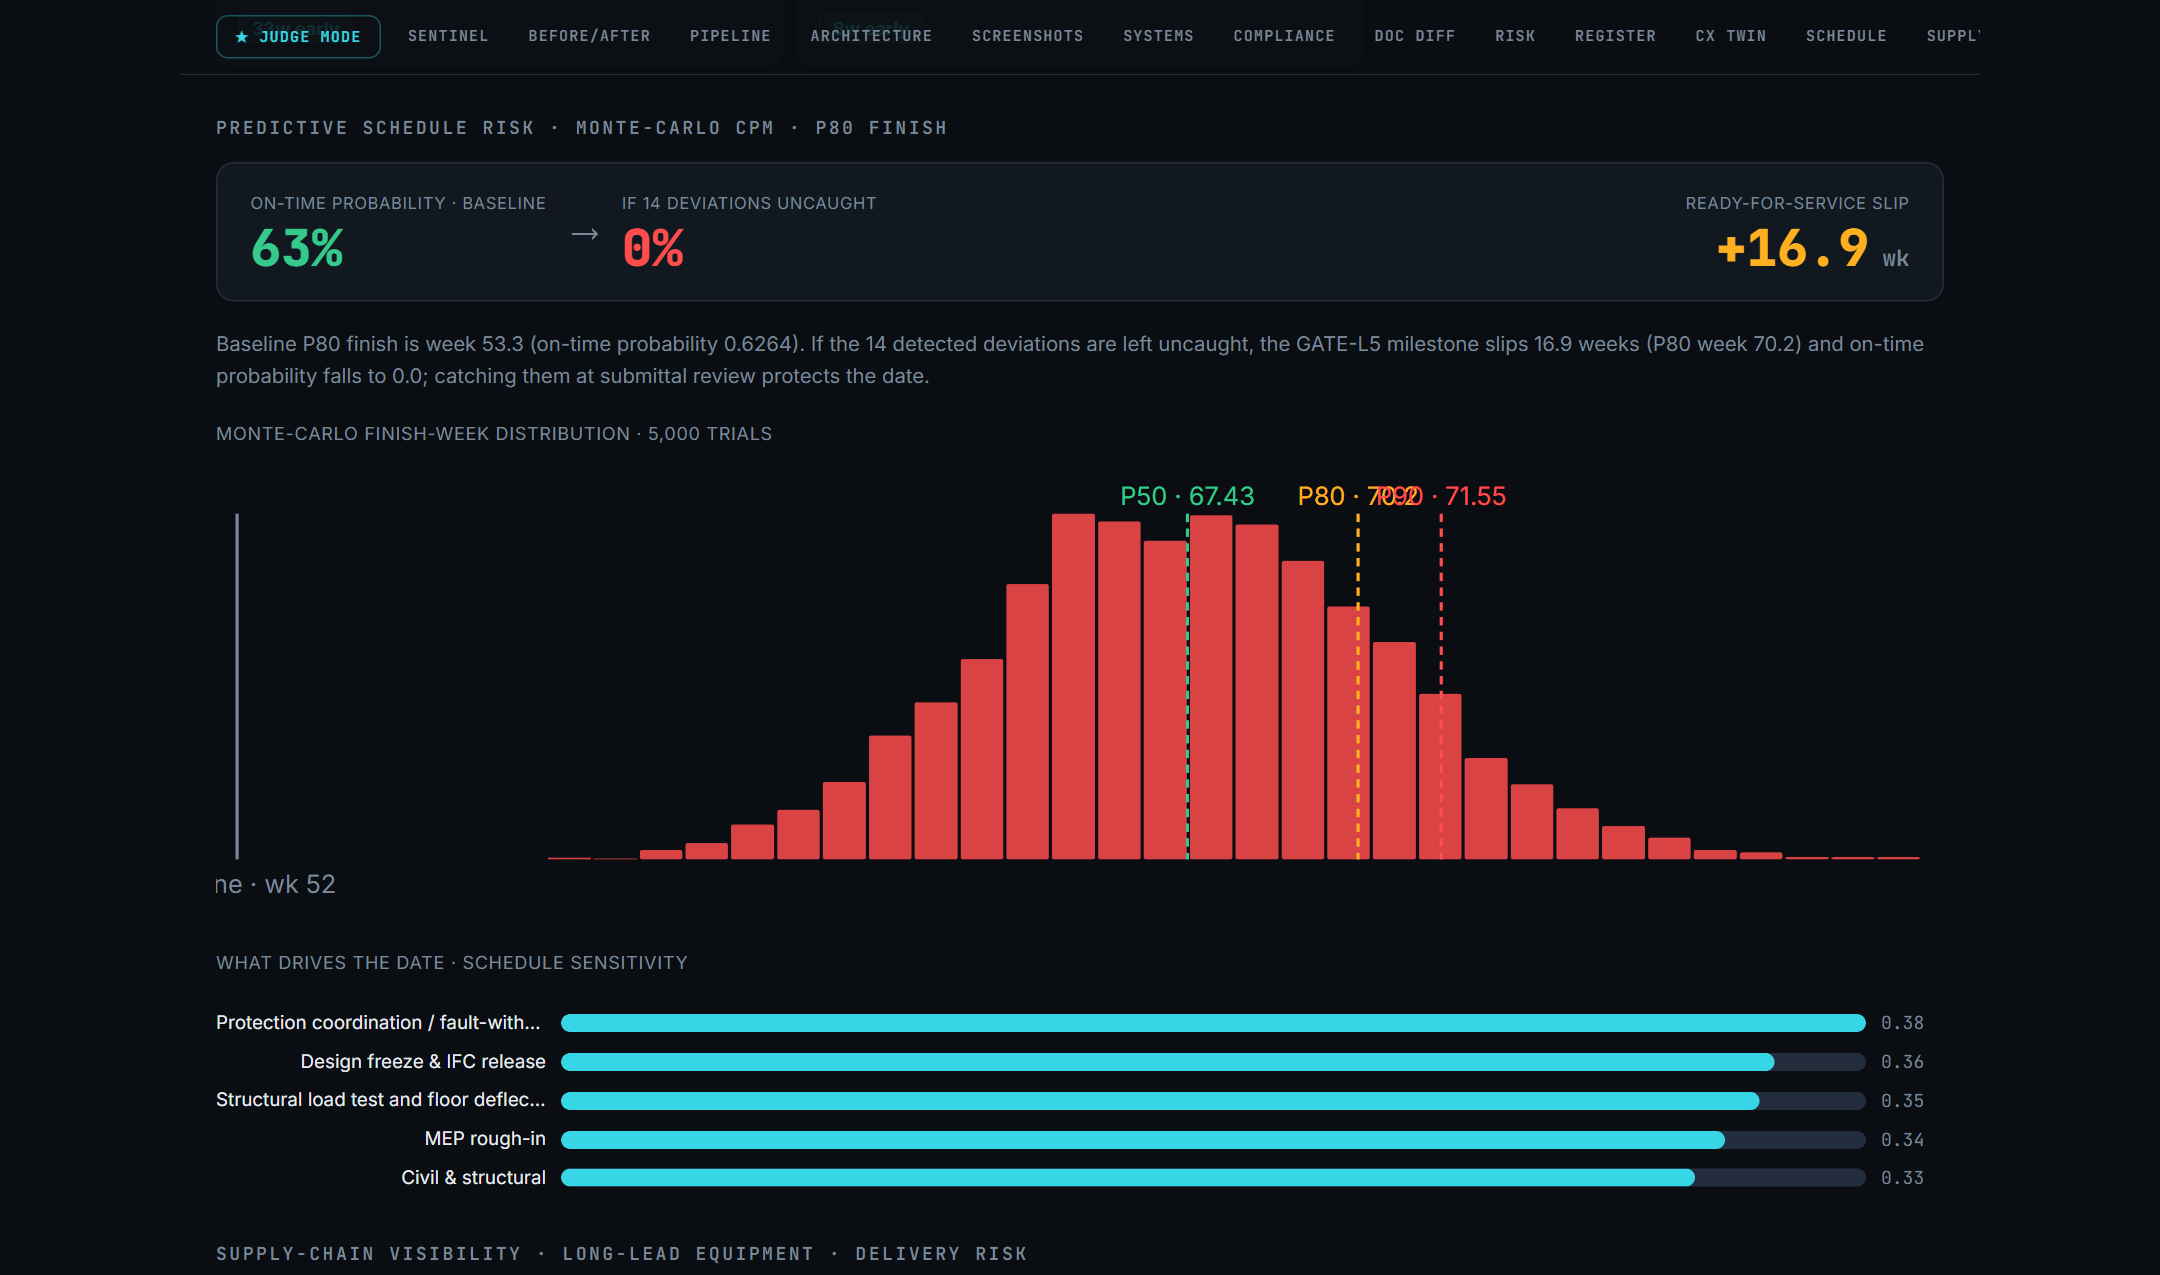
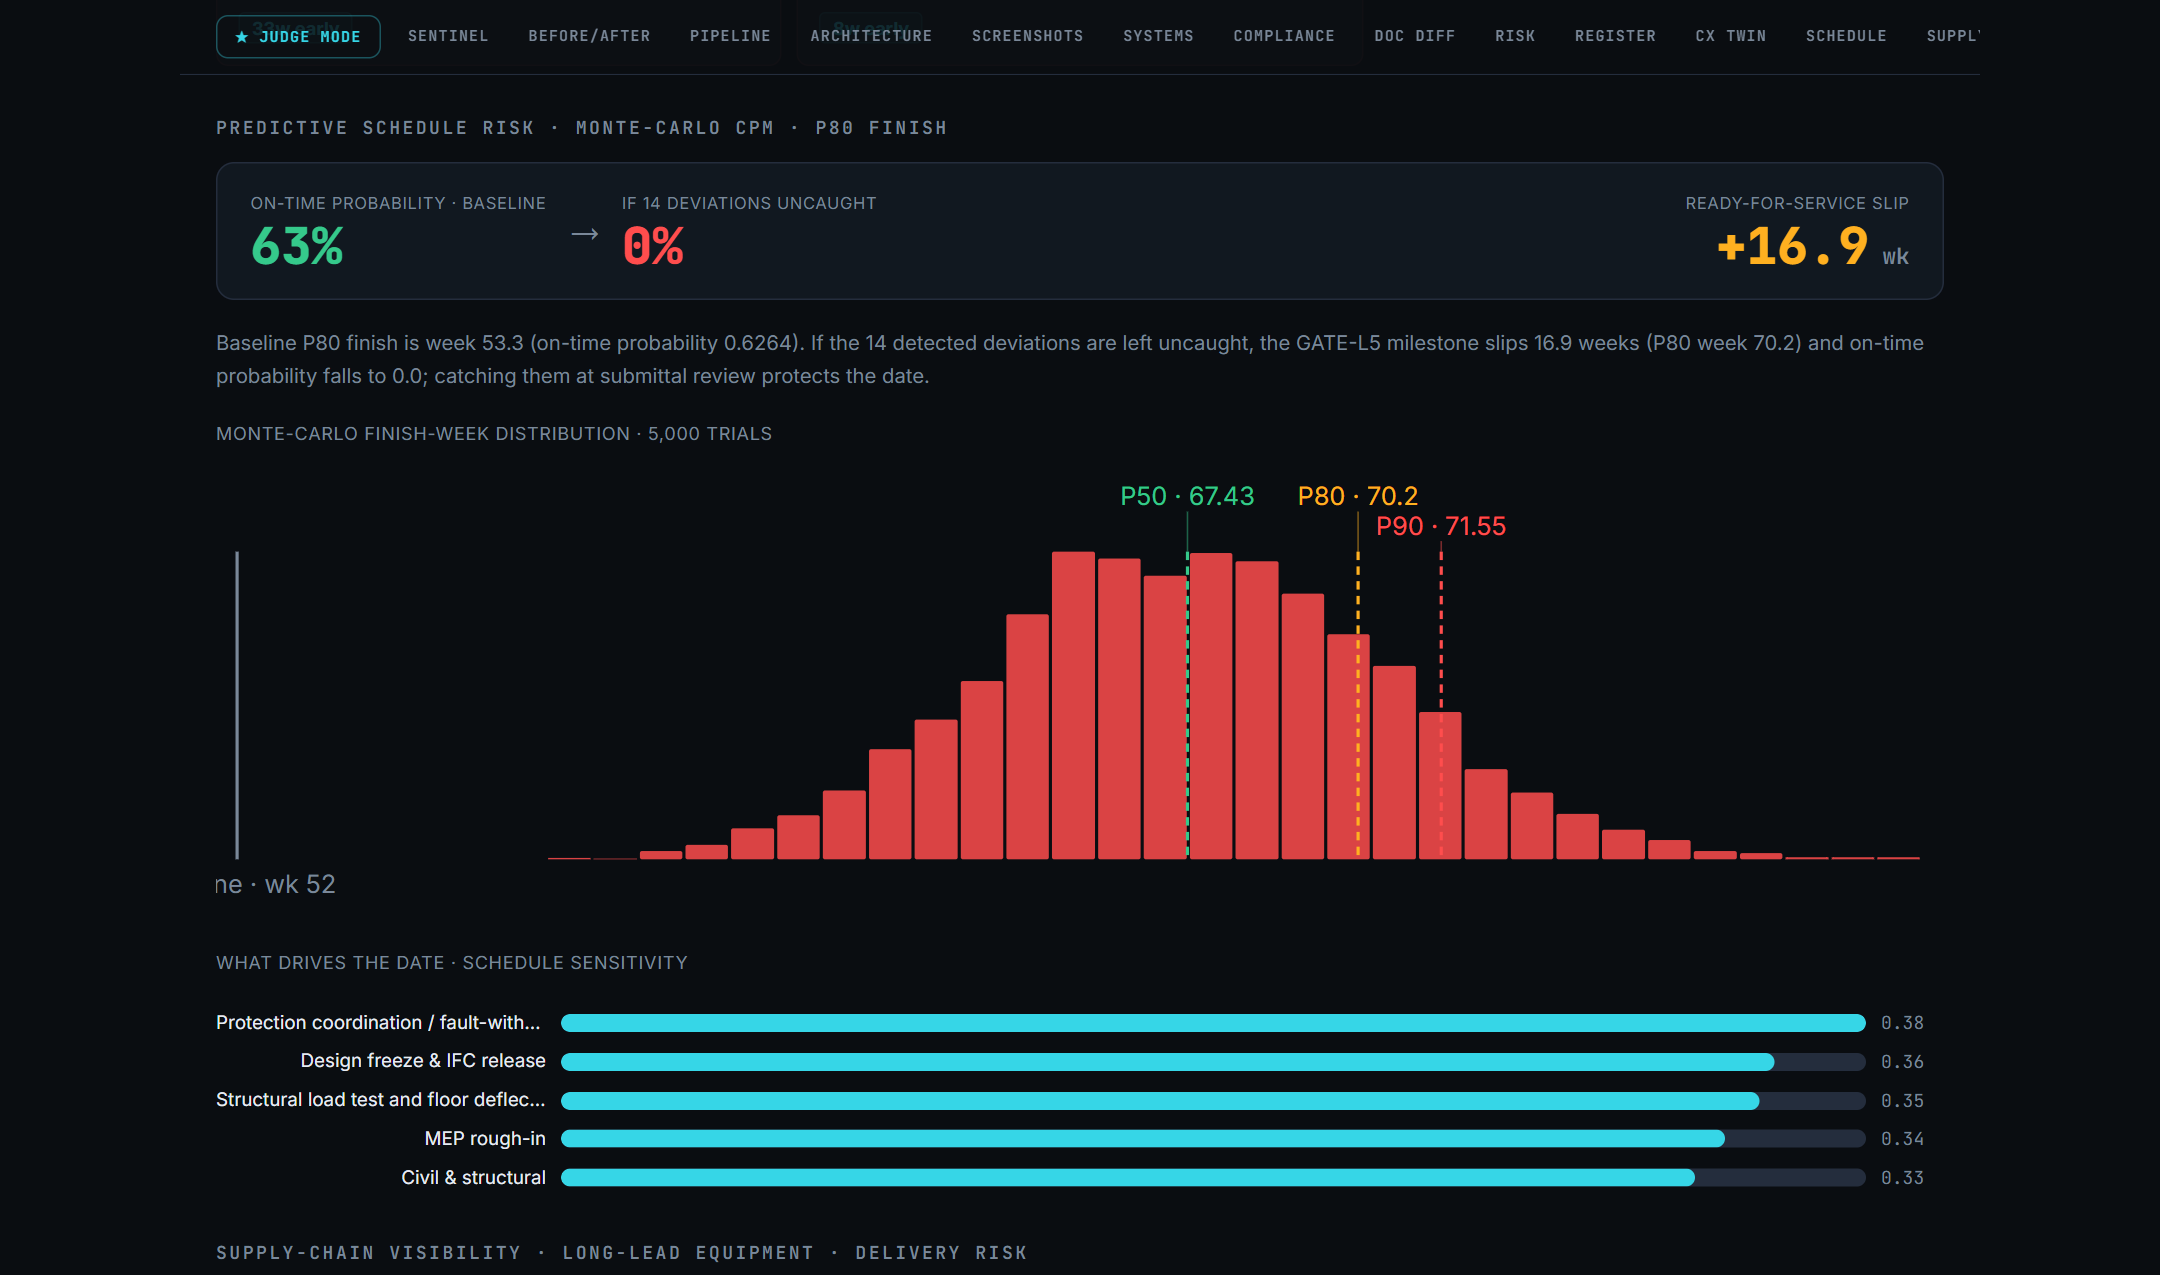
polish(ui): de-overlap percentile labels + label/legend the supply map
ScheduleRisk: stagger the P50/P80/P90 histogram labels into two rows (greedy,
58px min gap) with a faint connector so close percentiles (P80 70.2 vs P90
71.55) no longer print on top of each other.

SupplyChainPanel: label the real shipment endpoints (US / Germany / Navi
Mumbai) and add a risk legend (low/medium/high + dashed = at-risk). No
fabricated coastlines — only the actual origin/destination data points.

Regenerated schedule.png + supply.png from the live app/backend (real engine
output). tsc 0, vitest 6/6, next build green.

diff --git a/frontend/components/SupplyChainPanel.tsx b/frontend/components/SupplyChainPanel.tsx
@@ -58,6 +58,24 @@ export default function SupplyChainPanel({ analysis }: { analysis: SupplyChainAn
   const latLines: number[] = [];
   for (let lat = -60; lat <= 60; lat += 30) latLines.push(lat);
 
+  // Label the real shipment endpoints (origins + the destination site) so the
+  // arcs are legible without any fabricated coastlines. Dedupe by pixel position
+  // since several shipments share the same origin/destination.
+  const labels = new Map<string, { x: number; y: number; text: string; dest: boolean }>();
+  for (const sh of analysis.shipments) {
+    const o = coordsFor(sh.origin_country);
+    const d = coordsFor(sh.destination_site);
+    if (o) {
+      const x = xAt(o[1]), y = yAt(o[0]);
+      labels.set(`${Math.round(x)},${Math.round(y)}`, { x, y, text: sh.origin_country, dest: false });
+    }
+    if (d) {
+      const x = xAt(d[1]), y = yAt(d[0]);
+      const short = sh.destination_site.split(",")[0].trim() || sh.destination_site;
+      labels.set(`${Math.round(x)},${Math.round(y)}`, { x, y, text: short, dest: true });
+    }
+  }
+
   return (
     <div className="sc">
       <div className="sc-summary">
@@ -80,6 +98,26 @@ export default function SupplyChainPanel({ analysis }: { analysis: SupplyChainAn
           <line key={`h${lat}`} x1={0} y1={yAt(lat)} x2={MW} y2={yAt(lat)} stroke="var(--line)" strokeWidth={0.5} opacity={0.5} />
         ))}
         {analysis.shipments.map((sh) => <Arc key={sh.id} s={sh} />)}
+        {[...labels.values()].map((p) => (
+          <text key={`${p.x},${p.y}`} x={p.x} y={p.y - 9}
+            fill={p.dest ? "var(--lead)" : "var(--muted)"}
+            fontSize={11} fontWeight={p.dest ? 700 : 500}
+            textAnchor={p.x > MW - 90 ? "end" : p.x < 90 ? "start" : "middle"}>
+            {p.text}
+          </text>
+        ))}
+        {/* legend — risk bands + at-risk styling, so the arcs read at a glance */}
+        <g transform={`translate(14 ${MH - 20})`} fontSize={11}>
+          <rect x={-8} y={-16} width={344} height={26} rx={6} fill="var(--panel)" opacity={0.65} />
+          <circle cx={2} cy={0} r={4} fill="var(--ok)" />
+          <text x={11} y={4} fill="var(--muted)">low risk</text>
+          <circle cx={78} cy={0} r={4} fill="var(--warn)" />
+          <text x={87} y={4} fill="var(--muted)">medium</text>
+          <circle cx={150} cy={0} r={4} fill="var(--fault)" />
+          <text x={159} y={4} fill="var(--muted)">high</text>
+          <line x1={210} x2={236} y1={0} y2={0} stroke="var(--muted)" strokeWidth={2} strokeDasharray="5 3" />
+          <text x={242} y={4} fill="var(--muted)">at-risk shipment</text>
+        </g>
       </svg>
 
       <table className="sc-table">

diff --git a/frontend/components/ScheduleRisk.tsx b/frontend/components/ScheduleRisk.tsx
@@ -8,7 +8,7 @@ const W = 820;
 const H = 210;
 const PAD_L = 10;
 const PAD_R = 10;
-const PAD_T = 16;
+const PAD_T = 34; // headroom for up to two rows of staggered percentile labels
 const PAD_B = 30;
 
 function pct(p: number | null | undefined): string {
@@ -45,6 +45,23 @@ export default function ScheduleRisk({ analysis }: { analysis: ScheduleAnalysis 
     ["P80", mc.p80, "var(--warn)"],
     ["P90", mc.p90, "var(--fault)"],
   ];
+
+  // Stagger the percentile labels into up to two rows so close percentiles
+  // (e.g. P80 70.2 vs P90 71.55) don't print on top of each other. Greedy:
+  // prefer the upper row; drop to the lower row only when too near the last
+  // label placed on the upper row.
+  const LABEL_MIN_GAP = 58;
+  const ROW_Y = [PAD_T - 22, PAD_T - 8];
+  const rowLastX = [-Infinity, -Infinity];
+  const markerLayout = markers
+    .map(([lbl, wk, c]) => ({ lbl, wk, c, x: xAt(wk) }))
+    .sort((a, b) => a.x - b.x)
+    .map((m) => {
+      let row = m.x - rowLastX[0] < LABEL_MIN_GAP ? 1 : 0;
+      if (row === 1 && m.x - rowLastX[1] < LABEL_MIN_GAP) row = 0;
+      rowLastX[row] = m.x;
+      return { ...m, y: ROW_Y[row] };
+    });
 
   return (
     <div className="sr">
@@ -84,11 +101,13 @@ export default function ScheduleRisk({ analysis }: { analysis: ScheduleAnalysis 
               fill={late ? "var(--fault)" : "var(--lead)"} opacity={late ? 0.85 : 0.55} rx={1} />
           );
         })}
-        {markers.map(([lbl, wk, c]) => (
+        {markerLayout.map(({ lbl, wk, c, x, y }) => (
           <g key={lbl}>
-            <line x1={xAt(wk)} x2={xAt(wk)} y1={PAD_T} y2={PAD_T + plotH}
+            <line x1={x} x2={x} y1={PAD_T} y2={PAD_T + plotH}
               stroke={c} strokeWidth={1.5} strokeDasharray="4 3" />
-            <text x={xAt(wk)} y={PAD_T - 4} fill={c} fontSize={12} textAnchor="middle">{lbl} · {wk}</text>
+            {/* faint connector from the staggered label down to the line top */}
+            <line x1={x} x2={x} y1={y + 3} y2={PAD_T} stroke={c} strokeWidth={0.75} opacity={0.45} />
+            <text x={x} y={y} fill={c} fontSize={12} textAnchor="middle">{lbl} · {wk}</text>
           </g>
         ))}
         {deadline !== null && (
